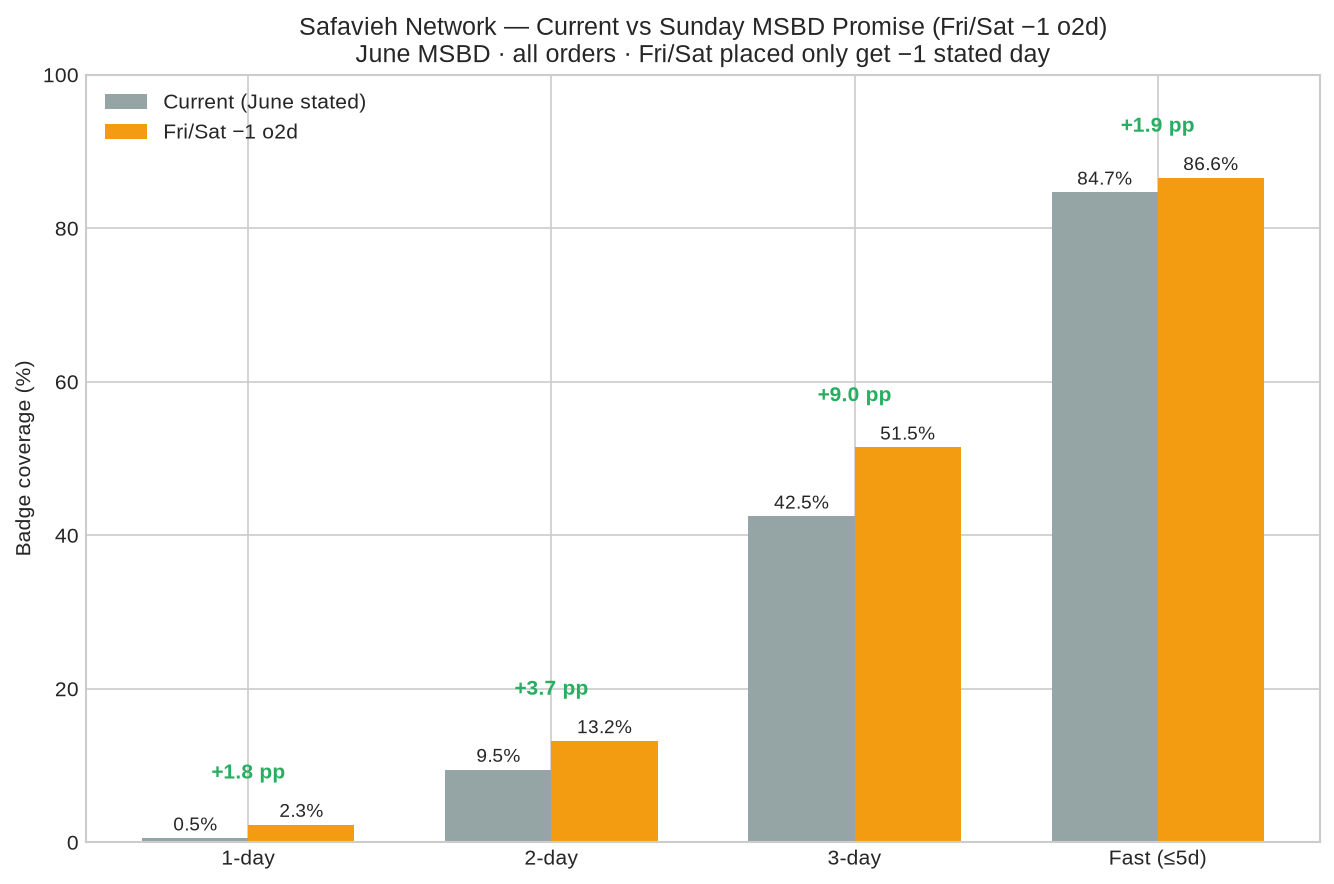
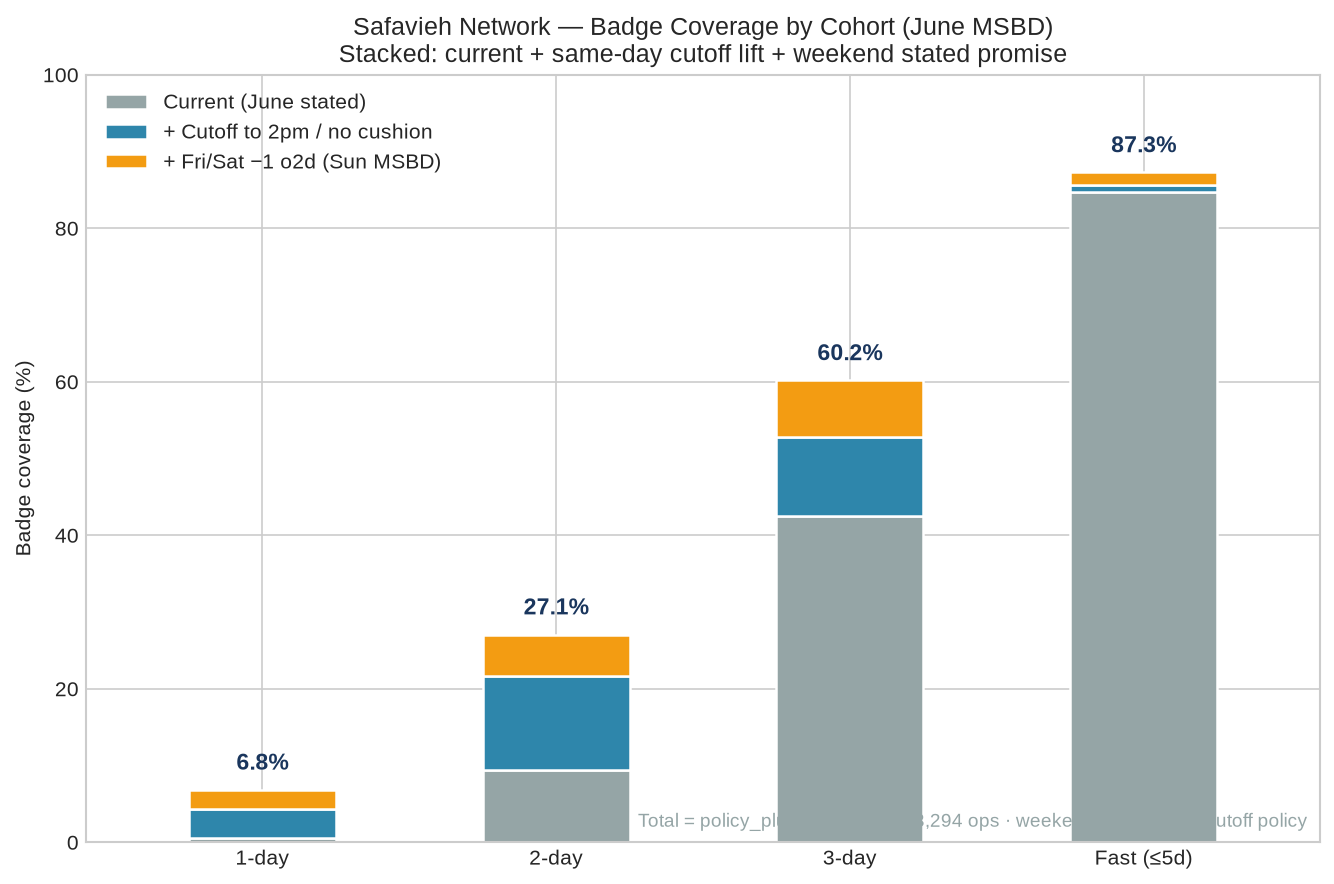
Restore stacked badging cohort chart 13 (cutoff + weekend lifts)

diff --git a/scripts/analyze_safavieh_charts.py b/scripts/analyze_safavieh_charts.py
@@ -164,7 +164,75 @@ def chart_badging_tiers(scen: pd.DataFrame) -> None:
 
 
 def chart_network_cohort_current_and_lifts(scen: pd.DataFrame) -> None:
-    """Grouped bars: current stated vs Fri/Sat −1 o2d (Sunday MSBD promise)."""
+    """Stacked bars: current + cutoff-to-2pm lift + Fri/Sat −1 lift (after policy)."""
+    if "policy_2pm_no_cushion" not in scen["scenario"].values:
+        return
+
+    tiers = ["1-day", "2-day", "3-day", "Fast (≤5d)"]
+    cols = ["badge_1d_pct", "badge_2d_pct", "badge_3d_pct", "badge_5d_fast_pct"]
+    cur = scen.loc[scen["scenario"] == "current", cols].iloc[0].values.astype(float)
+    pol = scen.loc[scen["scenario"] == "policy_2pm_no_cushion", cols].iloc[0].values.astype(float)
+    full = scen.loc[scen["scenario"] == "policy_plus_weekend", cols].iloc[0].values.astype(float)
+    cutoff_lift = pol - cur
+    weekend_lift = full - pol  # Fri/Sat −1 incremental after cutoff / no cushion
+
+    x = np.arange(len(tiers))
+    width = 0.5
+    edge = {"edgecolor": "white", "linewidth": 1.2}
+
+    fig, ax = plt.subplots(figsize=(9, 6))
+    ax.bar(x, cur, width, label="Current (June stated)", color=GRAY, **edge)
+    ax.bar(x, cutoff_lift, width, bottom=cur, label="+ Cutoff to 2pm / no cushion", color=ACCENT, **edge)
+    ax.bar(
+        x,
+        weekend_lift,
+        width,
+        bottom=cur + cutoff_lift,
+        label="+ Fri/Sat −1 o2d (Sun MSBD)",
+        color=ORANGE,
+        **edge,
+    )
+
+    ax.set_ylabel("Badge coverage (%)")
+    ax.set_title(
+        "Safavieh Network — Badge Coverage by Cohort (June MSBD)\n"
+        "Stacked: current + same-day cutoff lift + weekend stated promise"
+    )
+    ax.set_xticks(x)
+    ax.set_xticklabels(tiers)
+    ax.set_ylim(0, 100)
+    ax.set_xlim(-0.6, len(tiers) - 0.4)
+
+    for i in range(len(tiers)):
+        total = cur[i] + cutoff_lift[i] + weekend_lift[i]
+        ax.text(
+            x[i],
+            total + 2,
+            f"{total:.1f}%",
+            ha="center",
+            va="bottom",
+            fontsize=11,
+            fontweight="bold",
+            color=NAVY,
+        )
+
+    ax.legend(loc="upper left", framealpha=0.95)
+    ax.text(
+        0.99,
+        0.02,
+        "Total = policy_plus_weekend · 73,294 ops · weekend slice is after cutoff policy",
+        transform=ax.transAxes,
+        ha="right",
+        fontsize=9,
+        color=GRAY,
+    )
+    fig.tight_layout()
+    fig.savefig(CHARTS / "13_network_cohort_current_and_lift.png", dpi=150, bbox_inches="tight")
+    plt.close(fig)
+
+
+def chart_network_current_vs_fri_sat_minus1(scen: pd.DataFrame) -> None:
+    """Grouped bars: current stated vs Fri/Sat −1 only (parallel policy, not stacked)."""
     if "fri_sat_o2d_minus1" not in scen["scenario"].values:
         return
 
@@ -178,12 +246,12 @@ def chart_network_cohort_current_and_lifts(scen: pd.DataFrame) -> None:
     width = 0.35
     fig, ax = plt.subplots(figsize=(9, 6))
     b1 = ax.bar(x - width / 2, cur, width, label="Current (June stated)", color=GRAY)
-    b2 = ax.bar(x + width / 2, fri, width, label="Fri/Sat −1 o2d", color=ORANGE)
+    b2 = ax.bar(x + width / 2, fri, width, label="Fri/Sat −1 o2d only", color=ORANGE)
 
     ax.set_ylabel("Badge coverage (%)")
     ax.set_title(
-        "Safavieh Network — Current vs Sunday MSBD Promise (Fri/Sat −1 o2d)\n"
-        "June MSBD · all orders · Fri/Sat placed only get −1 stated day"
+        "Safavieh Network — Current vs Fri/Sat −1 o2d (standalone)\n"
+        "Not stacked with cutoff — weekend promise vs current stated"
     )
     ax.set_xticks(x)
     ax.set_xticklabels(tiers)
@@ -197,7 +265,7 @@ def chart_network_cohort_current_and_lifts(scen: pd.DataFrame) -> None:
                     fontsize=10, color=GREEN, fontweight="bold")
     ax.legend(loc="upper left")
     fig.tight_layout()
-    fig.savefig(CHARTS / "13_network_cohort_current_and_lift.png", dpi=150, bbox_inches="tight")
+    fig.savefig(CHARTS / "23_network_current_vs_fri_sat_minus1.png", dpi=150, bbox_inches="tight")
     plt.close(fig)
 
 
@@ -644,6 +712,7 @@ def main() -> None:
     chart_opportunity_gap(wh)
     chart_badging_tiers(scen)
     chart_network_cohort_current_and_lifts(scen)
+    chart_network_current_vs_fri_sat_minus1(scen)
     chart_weekend_incremental(scen)
     account_df = None
     lift_df = pd.read_csv(FRI_SAT_LIFT_CSV) if FRI_SAT_LIFT_CSV.exists() else None

diff --git a/docs/small_parcel/safavieh_ceo_meeting_preread.md b/docs/small_parcel/safavieh_ceo_meeting_preread.md
@@ -139,6 +139,24 @@ sim_badge_Nd = sim_o2d_stated ≤ N  (1-day, 2-day, 3-day, or fast ≤ 5)
 
 CSV: `output/safavieh/safavieh_june_fri_sat_badging_lift.csv`
 
+### Sunday MSBD badge lift by supplier (Fri/Sat −1 o2d vs current)
+
+| Supplier ID | Name | June vol | Fri/Sat vol | Current 3d | After Fri/Sat −1 | **Lift 3d (pp)** | **New 3d** |
+|-------------|------|--------:|------------:|-----------:|-----------------:|----------------:|-----------:|
+| 93132 | Safavieh IN46075 | 13,770 | 3,587 | 56.5% | 64.0% | **+7.5** | 1,027 |
+| 223799 | Safavieh Texas | 12,825 | 3,322 | 40.7% | 51.0% | **+10.3** | 1,314 |
+| 19770 | Safavieh NJ 08809 | 9,385 | 1,967 | 45.1% | 53.1% | **+7.9** | 744 |
+| 59119 | Safavieh CA 92518 | 7,967 | 1,937 | 34.6% | 41.1% | **+6.5** | 521 |
+| 34809 | Safavieh GA31407 B | 6,484 | 1,581 | 34.6% | 46.1% | **+11.6** | 749 |
+| 125267 | Safavieh GA 31320 | 5,975 | 1,623 | 30.8% | 45.5% | **+14.8** | 882 |
+| 287737 | Safavieh CA 95363 | 5,272 | 1,219 | 36.5% | 42.1% | **+5.6** | 293 |
+| 26803 | Safavieh NJ 08822 | 4,447 | 1,107 | 49.3% | 58.9% | **+9.5** | 423 |
+| 10114 | Safavieh PA 18042a | 2,857 | 650 | 43.5% | 53.3% | **+9.8** | 281 |
+| 51684 | Safavieh GA31407 C | 1,664 | 320 | 15.8% | 23.3% | **+7.5** | 125 |
+| 358410 | Safavieh PA 17015 | 1,475 | 332 | 65.6% | 75.7% | **+10.1** | 149 |
+
+CSV: `output/safavieh/safavieh_june_supplier_badging_cohorts.csv`
+
 ---
 
 ## Charts & visualizations
@@ -153,7 +171,8 @@ CSV: `output/safavieh/safavieh_june_fri_sat_badging_lift.csv`
 | [06 — 3-day badge by warehouse](safavieh_charts/06_3d_badge_by_warehouse.png) | Warehouse-level 3-day badge opportunity |
 | [07 — Volume by warehouse](safavieh_charts/07_volume_by_warehouse.png) | June MSBD volume distribution |
 | [08 — Sunday MSBD lift](safavieh_charts/08_weekend_incremental_by_tier.png) | Fri/Sat −1 o2d lift vs current (pp + orders) |
-| [13 — Current vs Fri/Sat −1](safavieh_charts/13_network_cohort_current_and_lift.png) | Network badge coverage by tier |
+| [13 — Stacked cohort lifts](safavieh_charts/13_network_cohort_current_and_lift.png) | Current + cutoff-to-2pm + Fri/Sat −1 (stacked) |
+| [23 — Current vs Fri/Sat −1 only](safavieh_charts/23_network_current_vs_fri_sat_minus1.png) | Grouped: weekend promise vs current (not stacked) |
 | [20 — Weekend shipping %](safavieh_charts/20_fri_sat_weekend_shipping_by_wh.png) | Actual Sat/Sun induction (Fri/Sat placed) |
 | [21 — Account lift](safavieh_charts/21_account_sunday_msbd_lift.png) | Parent account Fri/Sat −1 lift by tier |
 | [22 — Warehouse lift](safavieh_charts/22_warehouse_sunday_msbd_lift.png) | Warehouse Fri/Sat −1 lift by tier |
